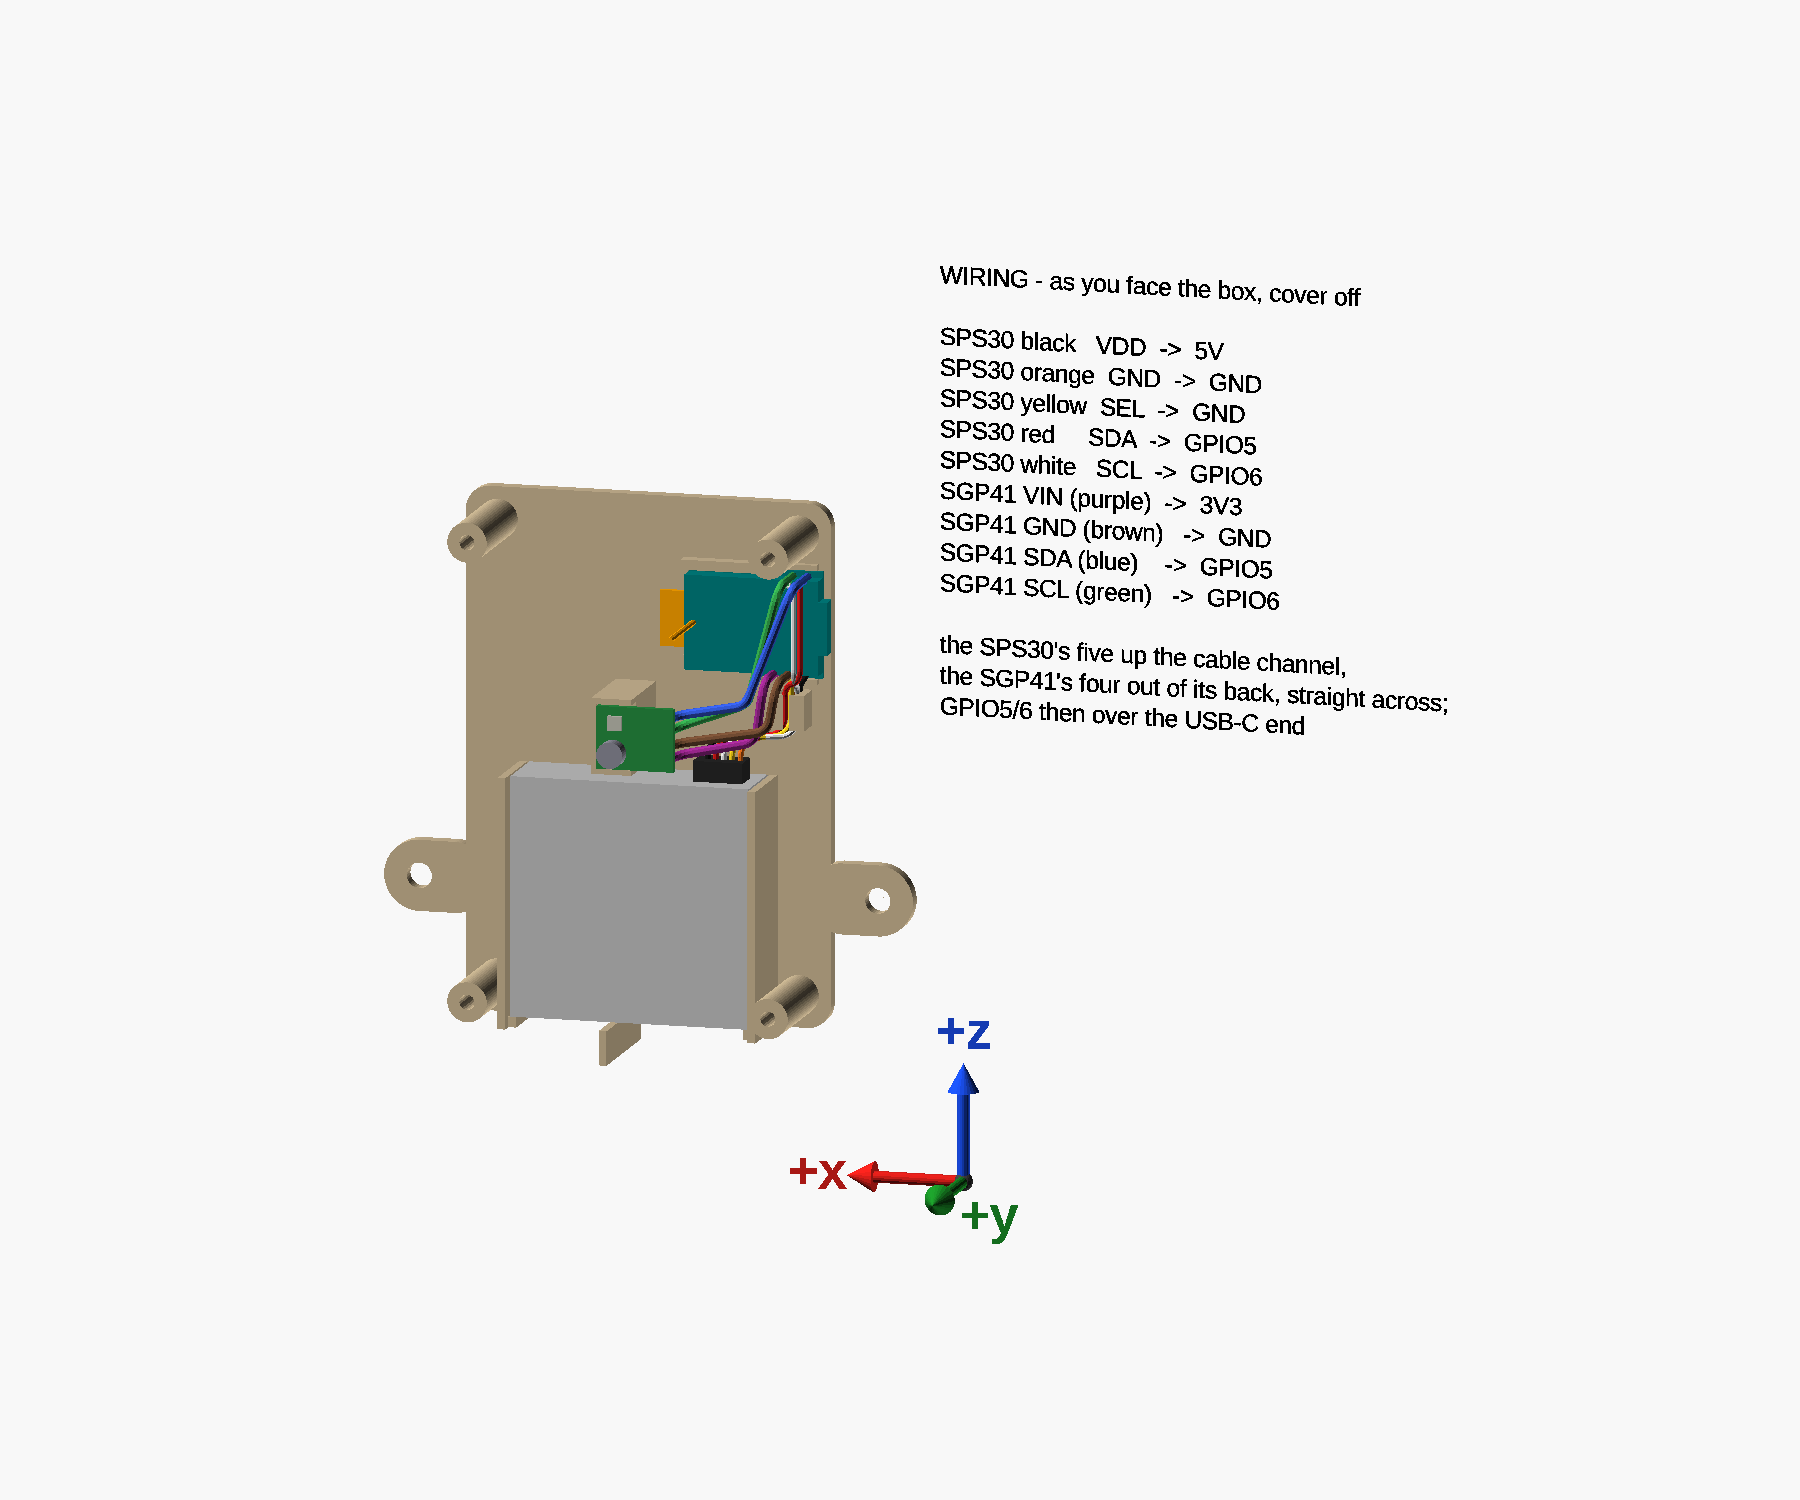
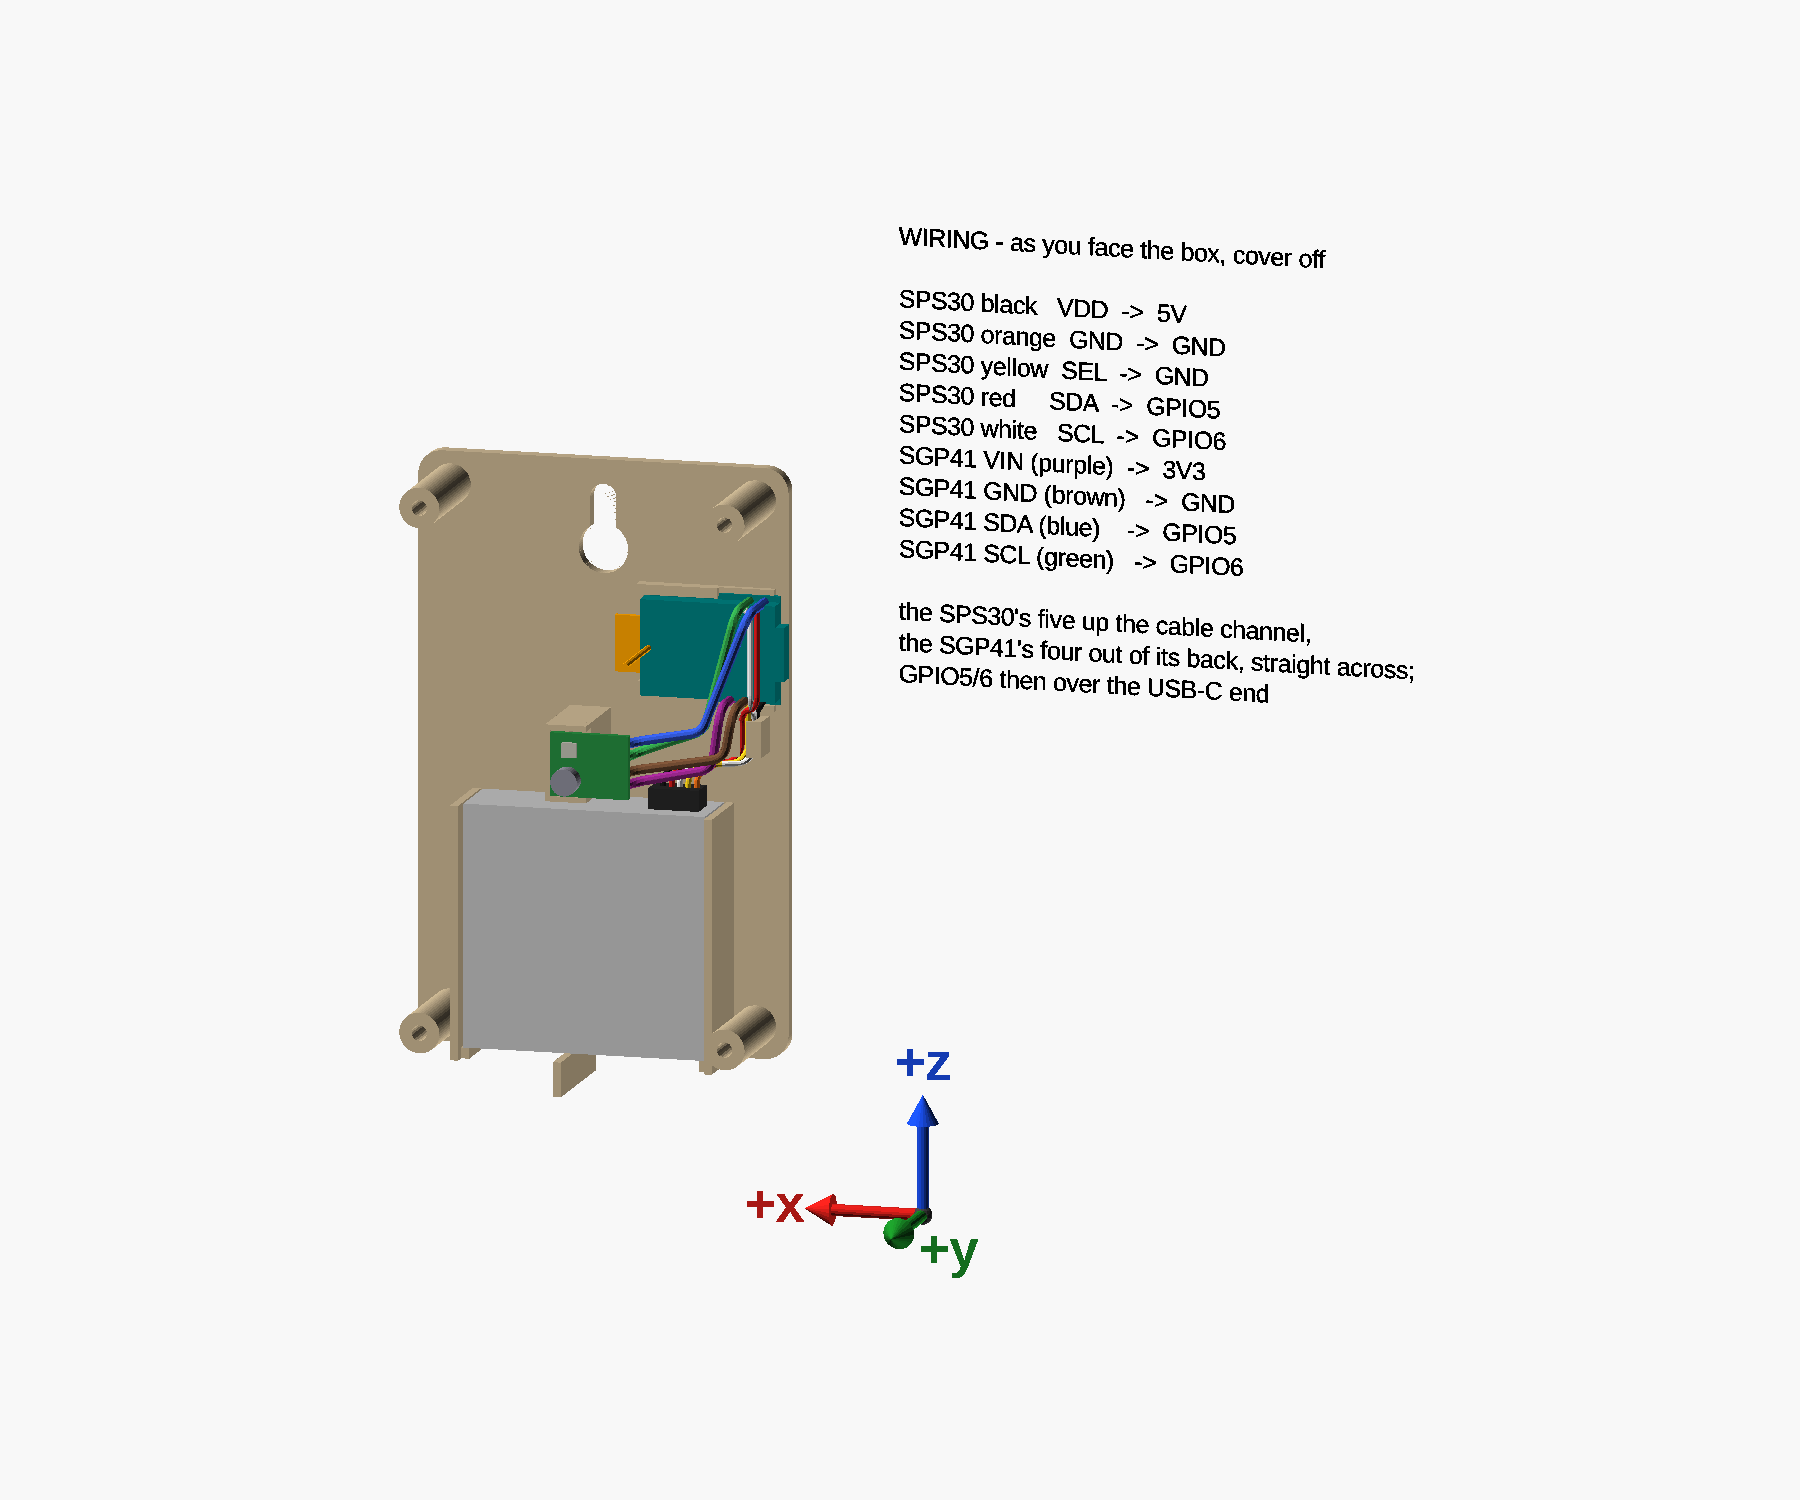
feat(models): print-chamber box - hang it by a keyhole, not tabs
Alon, 3 Oct 2026: "we should add a screw indent like we see on wall
clocks, a hole wider than the screw head with a slot narrower than the
screw head but wider than the threads."

The two side tabs and their wood-screw holes are gone. The back plate
has a keyhole instead: an entry the head passes (head + 1 mm) and above
it a slot the thread rides up (thread + 0.6 mm). It is a hole through
the 2.4 mm plate, so on the bed it is an opening in the first layers,
and the plate itself is what the head bears on - set the head 2.4 to
3.4 mm off the wall.

One screw holds the box plumb only on the vertical through its centre
of mass, and the SPS30 - most of the weight - is centred. That line is
taken from the bottom wall to the board's top: SPS30, SGP41, antenna
loop. So the keyhole gets a band of its own above the board, its entry
gap clear of the board, and H grows to fit: 88.5 -> 98.3 mm. Without
the tabs the back plate is 62.4 mm wide instead of 90.4.

The wall screw is not measured: key_shank_d, key_head_d and key_head_h
hold a typical 3.5 mm wood screw and sit in `unmeasured`, so the model
warns until they are set. An assert keeps at least 1 mm of plate under
the head on each side; another keeps the entry clear of the board. The
head's path, entry to hung, joins the components, so check_components
proves nothing on either part stands in it.

New positive controls: key_x = 56.925 puts the head under a top boss
(97.4 mm3); key_z0 = 75 and key_shank_d = 5 fire the two asserts.
[…]

Changed region(s): [[0.2178, 0.276, 0.5289, 0.736], [0.4978, 0.1533, 0.8089, 0.4907], [0.4044, 0.6747, 0.56, 0.8587]]

diff --git a/models/print-chamber-box/docs/parameters.md b/models/print-chamber-box/docs/parameters.md
@@ -21,9 +21,23 @@ From the **USB Type-C specification**, rev 1.2, so that no cable needs measuring
 | Name | Value | Note |
 |---|---|---|
 | `usb_shell_w` | **8.94** | the receptacle's inside opening is 8.34 × 2.56; the measured 3.16 height against 2.56 gives a 0.30 mm shell wall, so 8.34 + 2 × 0.30 |
-| `usb_plug_w`, `usb_plug_h` | **12.35 × 6.5** | the largest a compliant plug's body may be (Figure B-1, dimensions 1 and 14). The body stays outside the box, so these only check that it clears the tabs and the mounting surface |
+| `usb_plug_w`, `usb_plug_h` | **12.35 × 6.5** | the largest a compliant plug's body may be (Figure B-1, dimensions 1 and 14). The body stays outside the box, so these only check that it clears the mounting surface |
 
 From **ISO 4762**, the SGP41's M2.5 × 8 socket head cap screw: `gy_head_d` **4.5**, `gy_head_h` **2.5**.
+
+## Not measured yet
+
+In the `unmeasured` list, so the model warns until they are set. They size the keyhole the box hangs by:
+the entry is the head plus 1 mm, the slot the thread plus 0.6 mm, and an assert keeps at least 1 mm of
+plate under the head on each side.
+
+| Name | Placeholder | What |
+|---|---|---|
+| `key_shank_d` | 3.5 | the wall screw's thread, across |
+| `key_head_d` | 7.0 | its head, across |
+| `key_head_h` | 2.6 | its head, tall |
+
+Placeholders for a typical 3.5 mm wood screw: measure the one that will hang the box.
 
 ## Measured
 
@@ -65,15 +79,16 @@ Clearances that depend on the printer and the filament, found with [the clearanc
 
 | Name | Value | Status |
 |---|---|---|
-| `sps_fit` | **0.2** | tested 2 Oct 2026, snug — clearance per side round the SPS30. Flush across its thickness, about 0.7 mm loose along its width; the width allowance waits on a caliper reading of the sensor |
+| `sps_fit` | **0.2** | tested 2 Oct 2026, snug — clearance per side round the SPS30. Flush across its thickness, about 0.7 mm loose along its width, until the width was measured (`sps_w`, `sps_nub` above) |
 | `pocket_fit` | **0.2** | tested 2 Oct 2026, snug — clearance per side round both boards |
 | `part_fit` | **0.3** | tested 3 Oct 2026, 0.26–0.29 per side as printed — between a back-plate feature and the cover |
 | `pilot_d` | **2.3** | tested 3 Oct 2026, a little tight — pilot for the cover's M3 × 14 self-tapping screws |
 | `gy_pilot_d` | **2.1** | tested 3 Oct 2026, fine — pilot for the SGP41's M2.5 screw |
 | `screw_d` | **3.2** | tested 3 Oct 2026, passes an M3 freely — clearance hole for the M3 screws in the cover |
-| `tab_hole_d` | 4.0 | untested — mounting holes in the tabs, for wood screws up to 3.5 mm; waits on how the box is mounted |
 
-The untested ones are listed in `untested_fits`, and `scad-check.sh` exits 2 until it is empty.
+Every fit has been tested, so `untested_fits` is empty; a fit added later goes in it untested, and
+`scad-check.sh` exits 2 until it is cleared. The mounting tabs' `tab_hole_d` went with the tabs on
+3 Oct 2026.
 
 ## Not in the params file
 

diff --git a/models/print-chamber-box/docs/clearance-test.md b/models/print-chamber-box/docs/clearance-test.md
@@ -26,11 +26,14 @@ are for 1 / 2 / 3 dots.
 | **D** | the three **tall** bosses, nearest the front | `pilot_d` | 2.1 / 2.3 / 2.5 | drive an M3 × 14 self-tapping screw fully in, then back out — once per boss, since the first drive cuts the thread | the one that bites firmly without splitting the boss or taking real force |
 | **E** | the three **short** bosses, behind them | `gy_pilot_d` | 2.0 / 2.1 / 2.2 | the same with the M2.5 × 8 cap screw, through the GY-SGP41's hole: the pilot is as deep as the box's, which counts on the board under the head | as for D |
 | **F** | the hole bar's row **next to the C trays** | `screw_d` | 3.0 / 3.2 / 3.4 | an M3 screw | the smallest it passes through freely |
-| **G** | the hole bar's **other** row — the larger holes | `tab_hole_d` | 3.8 / 4.0 / 4.2 | the wood screws that will hang the box | the smallest they pass through freely |
+| **G** | the 2 Oct print's hole bar has a second row, the larger holes | ~~`tab_hole_d`~~ | retired | — | the mounting tabs it was for went on 3 Oct 2026: the box hangs by a keyhole. A reprint has no G |
 | **H** | the peg, and the block with the socket beside it | `part_fit` | — | calipers: the peg's width and the socket's | the socket is drawn 0.6 mm wider. If (socket − peg) / 2 comes out under 0.15 mm, the box's parts will bind — raise `part_fit` by the shortfall |
 
-**The hole bar has one group of dots per column**, between its two rows: it counts for both holes in
-that column.
+**The hole bar has one group of dots over each hole.** On the 2 Oct print the groups sit between its
+two rows, and count for both.
+
+The keyhole the box hangs by is not tried here: it is sized from the wall screw with room to spare —
+0.6 mm round the thread, at least 1 mm of plate under the head each side — once the screw is measured.
 
 The values follow the settings, so after a setting changes, a reprint tries a new ladder round it. The
 table shows the ladder a reprint would try now; the results below give the one the print tried.
@@ -69,5 +72,5 @@ All from the one print of 2 Oct 2026.
   never short: its pilots are 18.8 mm deep, against the 12.2 mm of screw that passes through the cover.
 - **H**'s 0.26–0.29 mm is over the 0.15 mm floor, so `part_fit` stays at 0.3.
 
-**G is not tested**, because how the box will be mounted is still open: the tabs, and their holes, may
-change.
+**G is retired**, untested: on 3 Oct 2026 the box's mounting tabs, whose holes it tried, gave way to a
+keyhole for one wall screw.

diff --git a/models/print-chamber-box/README.md b/models/print-chamber-box/README.md
@@ -3,7 +3,8 @@
 An enclosure for the printer chamber node: an ESP32-C3 SuperMini, a Sensirion SPS30 particle sensor and
 a GY-SGP41 VOC/NOx module, running [`firmware/print-chamber.yaml`](../../firmware/print-chamber.yaml). It
 hangs on the wall outside the printer's enclosure, upright, with the SPS30's air face down. Two parts in
-ASA — a back plate and a cover held by four screws — 62.4 × 88.5 × 24 mm, plus a mounting tab each side.
+ASA — a back plate and a cover held by four screws — 62.4 × 98.3 × 24 mm, hung on one wall screw by a
+keyhole in its back.
 
 ![every part, moved apart along the way it goes in](docs/assembly-exploded.png)
 
@@ -13,10 +14,10 @@ its back, so on the bed its y is up.
 
 ## Status
 
-**Modelled and checked; not printable as-is yet.** Every dimension is measured or sourced, and the
-clearance test has set every fit but one: `tab_hole_d`, the mounting holes, waits on how the box will be
-mounted, and `scad-check.sh` exits 2 on purpose until it is set. The SPS30's width allowance waits on a
-caliper reading of the sensor. See [the clearance test](docs/clearance-test.md).
+**Modelled and checked; not printable as-is yet.** The clearance test has set every fit
+([the clearance test](docs/clearance-test.md)), and every dimension is measured or sourced but the wall
+screw's: its thread and head are placeholders until the screw that will hang the box is measured, and
+`scad-check.sh` exits 2 on purpose until then.
 
 Before printing the back plate, check on the parts the values read off photos rather than calipers:
 `sm_edge`, `pin_mid`, `gy_hole_bare_d`, and which edge of its pocket the SGP41's mounting hole sits by
@@ -35,7 +36,8 @@ Before printing the back plate, check on the parts the values read off photos ra
 | Clearance test | [`print-chamber-box-fits.scad`](print-chamber-box-fits.scad) | flat |
 
 **Hardware:** four M3 × 14 self-tapping screws for the cover, one M2.5 × 8 socket head cap screw for the
-SGP41, two wood screws up to 3.5 mm to hang it, and 22 AWG solid hookup wire for the SGP41. No tape, no
+SGP41, one wall screw of about 3.5 mm and its wall plug to hang it, and 22 AWG solid hookup wire for the
+SGP41. No tape, no
 glue.
 
 ## Printing

diff --git a/models/print-chamber-box/docs/assembly.md b/models/print-chamber-box/docs/assembly.md
@@ -8,7 +8,7 @@
 - the ESP32-C3 SuperMini, the SPS30 with its lead, and the GY-SGP41;
 - four **M3 × 14 self-tapping** screws for the cover, and one **M2.5 × 8 socket head cap screw** for the
   SGP41;
-- two **wood screws** up to 3.5 mm, to hang it;
+- one **wall screw** of about 3.5 mm, and its wall plug, to hang it;
 - **22 AWG solid hookup wire** for the SGP41's four wires;
 - no tape and no glue: everything is held by the printed parts.
 
@@ -34,11 +34,20 @@ the model: the SuperMini's slide from its USB-C side, and the SPS30's path in fr
 
 ## Hanging it
 
-Two wood screws through the tabs, up to 3.5 mm. The tabs reach 14 mm past the box, so the screwdriver's
-shaft clears its side.
+On one screw, by the keyhole in the back plate — the way a wall clock hangs.
+
+1. **Drive the screw where the box's centre line will be**, 92 mm above where its bottom edge will sit.
+2. **Leave its head standing about 3 mm off the wall** — between 2.4 and 3.4 mm. The plate is 2.4 mm
+   thick, and the room behind it is 1 mm deeper than the head.
+3. **Put the head through the round opening, then let the box down.** The screw rides up the slot to its
+   top, and the head holds the plate against the wall.
+
+A steel screw head now sits about 10 mm above the board's antenna end. After hanging it, compare the
+node's Wi-Fi signal with what it reads on the bench.
 
 **Clip the USB-C cable to the wall 3–5 cm from the plug** with a stick-on cable clip. The box has no cable
-clamp: a plug's body runs 2–3 cm out from the wall before the cable starts, and the nearest part of the
-box, the tab, ends 14 mm out and 40 mm lower, so anything on the box would force the cable into a loop.
+clamp: a plug's body runs 2–3 cm out from the box's side before the cable starts, so anything on the box
+would force the cable into a loop. On one screw, a cable pulling sideways could also turn the box; the
+clip takes that pull.
 The socket does not need one: its shell-sized opening takes side loads into the wall, and the thinned
 wall takes a pull. More in [The USB-C end](usb-c-end.md).

diff --git a/models/print-chamber-box/docs/checking.md b/models/print-chamber-box/docs/checking.md
@@ -20,7 +20,7 @@ scripts/scad-check.sh models/print-chamber-box/print-chamber-box-fits.scad  "$P"
 ```
 
 Each should report **one manifold part** and `fdm_*` values matching the profile: the back plate
-90.4 mm wide with its tabs, the cover 62.4 mm.
+62.4 × 102.3 mm on the bed — the divider stands 4 mm below the box — and the cover 62.4 × 98.3 mm.
 
 - **Exit 2 is expected** for the back plate and the cover while the `unmeasured` and `untested_fits`
   lists are not empty; exit 0 means both are clear. The clearance test has no warnings of its own, so
@@ -50,7 +50,7 @@ check run one way only has passed a mirrored mistake before.
 
 "Empty" means OpenSCAD writes no file.
 
-**Positive controls**, measured 2 Oct 2026:
+**Positive controls**, measured 2–3 Oct 2026:
 
 | Check | Setting | What it breaks | Measured |
 |---|---|---|---|
@@ -67,9 +67,11 @@ check run one way only has passed a mirrored mistake before.
 | `check_slide` | `stop_x0 = 20` | the stops moved into the board's way in | 5.4 mm³ |
 | `check_slide` | `sm_lip_y0 = 2.6` | the lips set too low over the board's edges | 2.1 mm³ |
 | `check_insert` | the design before the SPS30 went in from the front, with lips over its face | the sensor could not have been fitted | 131.8 mm³ |
+| `check_components` | `key_x = 56.925` | the keyhole moved under a top boss: the wall screw's head runs into it | 97.4 mm³ |
 
 Stops reaching into the antenna loop, and a mounting hole too small for the SGP41's screw, are caught
-earlier, by asserts.
+earlier, by asserts. So is a keyhole that would let the wall screw's head meet the board — `key_z0 = 75`
+fires it — or whose slot is too wide to hold the head: `key_shank_d = 5`.
 
 ## The wire routes
 

diff --git a/models/print-chamber-box/docs/features.md b/models/print-chamber-box/docs/features.md
@@ -10,8 +10,11 @@ As you face the box with the cover off:
 
 1. **The plate** — the back of the box, flat against the wall. Everything else stands on it, and it
    prints flat on the bed.
-2. **Mounting tabs** — one each side, with a hole for a wood screw up to 3.5 mm. 14 mm long, so the
-   screwdriver's shaft clears the box's side.
+2. **Keyhole** — the box hangs on one wall screw, like a wall clock: the screw's head goes in through
+   the round opening, and the box drops so the screw rides up the slot, its head behind the plate. On
+   the centre line, so the box hangs plumb; above the board, because the centre line below it is taken
+   by the SPS30, the SGP41 and the antenna. A hole through the plate, so it prints as an opening in the
+   first layers.
 3. **Channel walls** — the SPS30 is set between them from the front, and they hold it sideways. They
    have no lips: anything over the sensor's face would block its way in.
 4. **Ledges** — the sensor stands on these, one under each end of its air face, clear of the openings.
